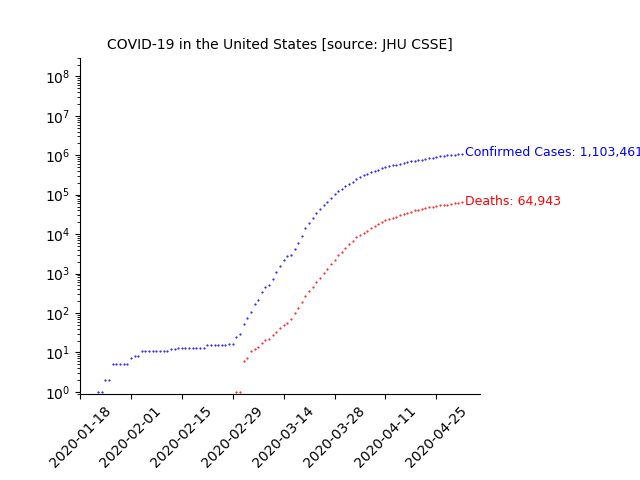
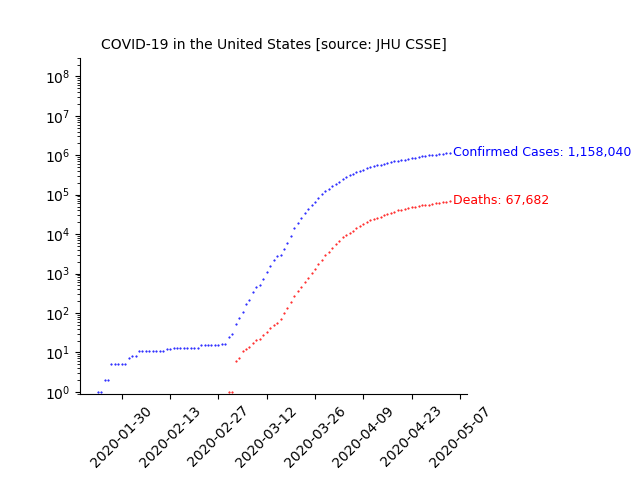
2020-05-03 updates

diff --git a/plot_us.py b/plot_us.py
@@ -29,7 +29,7 @@ ax.annotate('Deaths: {:,}'.format(deaths_us[-1]), (dates[-1]+dt.timedelta(days=1
 
 ax.set_ylim([0.9,300e6])
 ax.xaxis.set_tick_params(rotation=45, labelsize=10)
-fig.subplots_adjust(bottom=0.18, right=0.75)
+fig.subplots_adjust(bottom=0.18, right=0.73)
 ax.spines['right'].set_visible(False)
 ax.spines['top'].set_visible(False)
 plt.title('COVID-19 in the United States [source: JHU CSSE]', fontsize=10)
@@ -40,7 +40,7 @@ daily_deaths = deaths_us[1:] - deaths_us[:-1]
 fig, ax = plt.subplots()
 plt.bar(dates[1:], daily_deaths)
 ax.xaxis.set_tick_params(rotation=45, labelsize=10)
-fig.subplots_adjust(bottom=0.18, right=0.75)
+fig.subplots_adjust(bottom=0.18)
 ax.spines['right'].set_visible(False)
 ax.spines['top'].set_visible(False)
 plt.ylabel('new reported deaths by day [source: JHU CSSE]')
